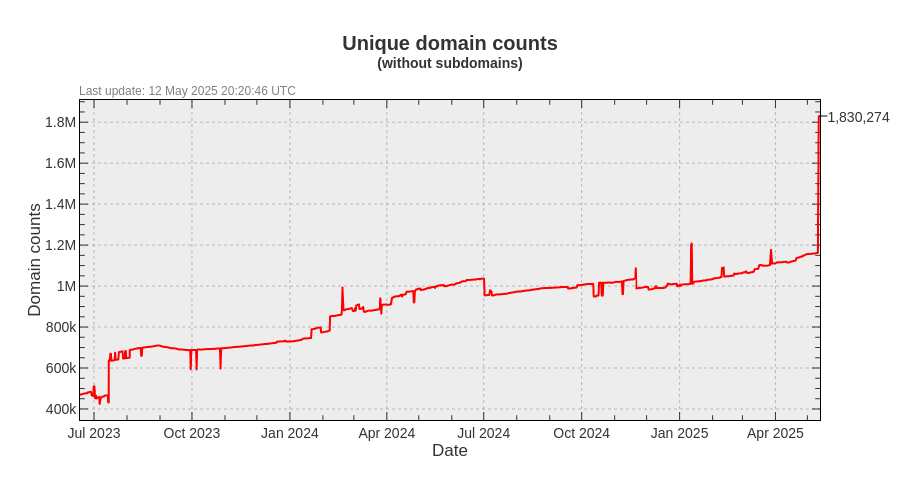
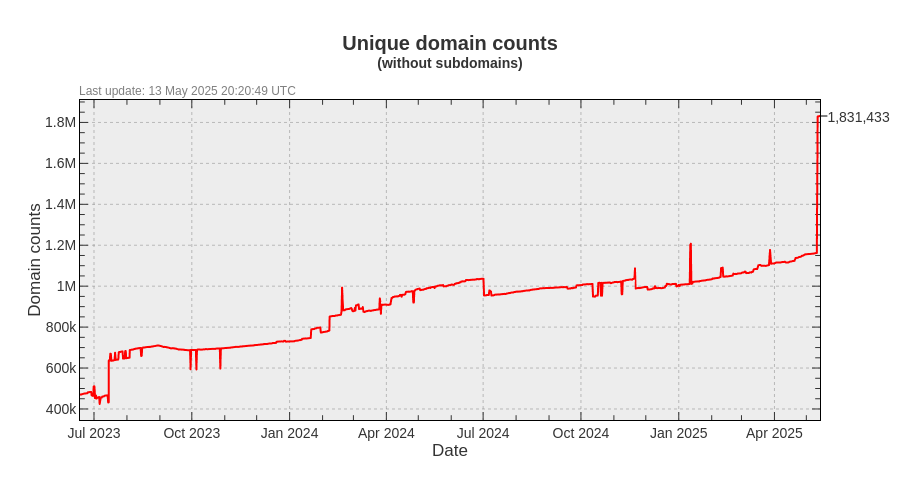
Update pages

diff --git a/README.md b/README.md
@@ -3,23 +3,23 @@ A blocklist file for blocking ads, trackers and malware domains.
 
[1 lines of base64/hex data omitted]
 
-- Unique domains: 2,457,268
-- Without subdomains: 1,830,274
-- Last update: 12 May 2025 20:20:46 UTC
-- Version: 2025.05.12.02
+- Unique domains: 2,458,435
+- Without subdomains: 1,831,433
+- Last update: 13 May 2025 20:20:49 UTC
+- Version: 2025.05.13.01
 
 
 ### Downloads:
 
 | Format             | Domain count      | Download Link |
 |:------------------ | -----------------:|:-------------:|
-| *Adblock Plus*     | 1,830,274 | [Download](https://raw.githubusercontent.com/cenk/bad-hosts/main/bad-hosts-abp) |
-| *Wildcard domains* | 1,830,274 | [Download](https://raw.githubusercontent.com/cenk/bad-hosts/main/bad-hosts-wildcard) |
-| *dnsmasq*          | 1,830,274 | [Download](https://raw.githubusercontent.com/cenk/bad-hosts/main/bad-hosts-dnsmasq) |
-| *Unbound*          | 1,830,274 | [Download](https://raw.githubusercontent.com/cenk/bad-hosts/main/bad-hosts-unbound) |
-| *hosts*            | 2,457,268 | [Download](https://raw.githubusercontent.com/cenk/bad-hosts/main/hosts) |
-| *hosts (ipv6)*     | 2,457,268 | [Download](https://raw.githubusercontent.com/cenk/bad-hosts/main/hosts-ipv6) |
-| *Plain domains*    | 2,457,268 | [Download](https://raw.githubusercontent.com/cenk/bad-hosts/main/bad-hosts-domains) |
+| *Adblock Plus*     | 1,831,433 | [Download](https://raw.githubusercontent.com/cenk/bad-hosts/main/bad-hosts-abp) |
+| *Wildcard domains* | 1,831,433 | [Download](https://raw.githubusercontent.com/cenk/bad-hosts/main/bad-hosts-wildcard) |
+| *dnsmasq*          | 1,831,433 | [Download](https://raw.githubusercontent.com/cenk/bad-hosts/main/bad-hosts-dnsmasq) |
+| *Unbound*          | 1,831,433 | [Download](https://raw.githubusercontent.com/cenk/bad-hosts/main/bad-hosts-unbound) |
+| *hosts*            | 2,458,435 | [Download](https://raw.githubusercontent.com/cenk/bad-hosts/main/hosts) |
+| *hosts (ipv6)*     | 2,458,435 | [Download](https://raw.githubusercontent.com/cenk/bad-hosts/main/hosts-ipv6) |
+| *Plain domains*    | 2,458,435 | [Download](https://raw.githubusercontent.com/cenk/bad-hosts/main/bad-hosts-domains) |
 
 ### Domain count history
 #### With subdomains
